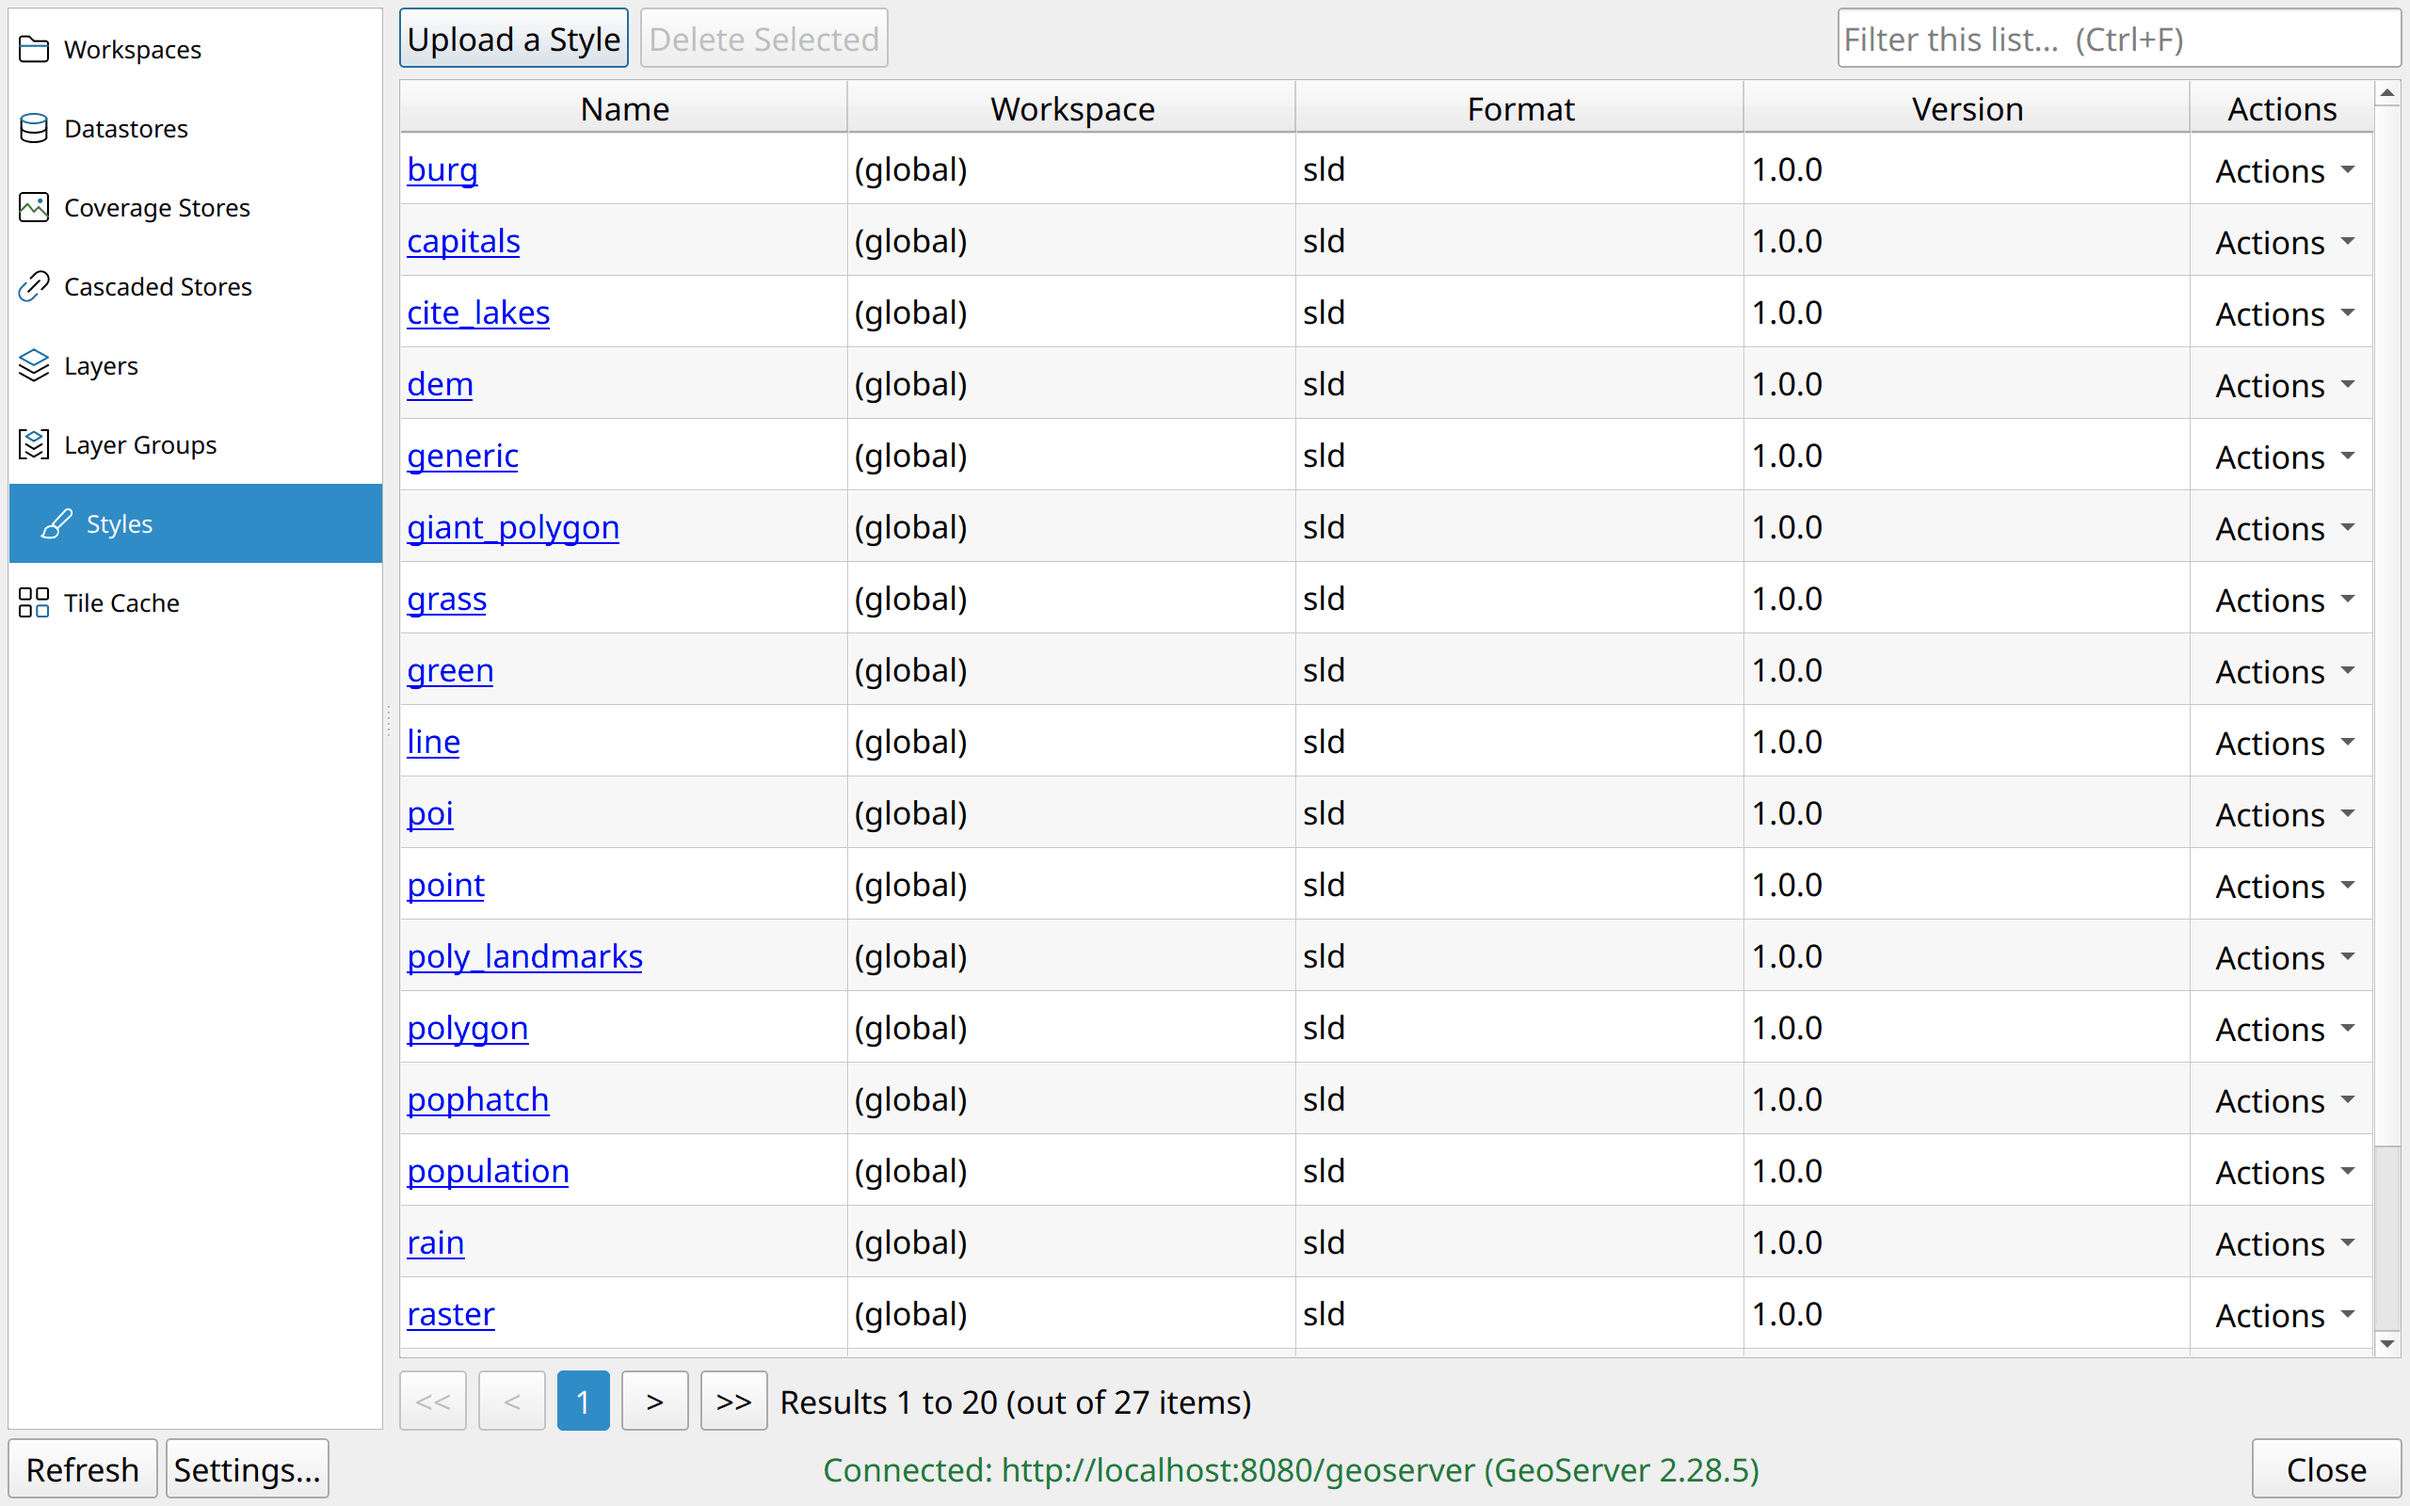
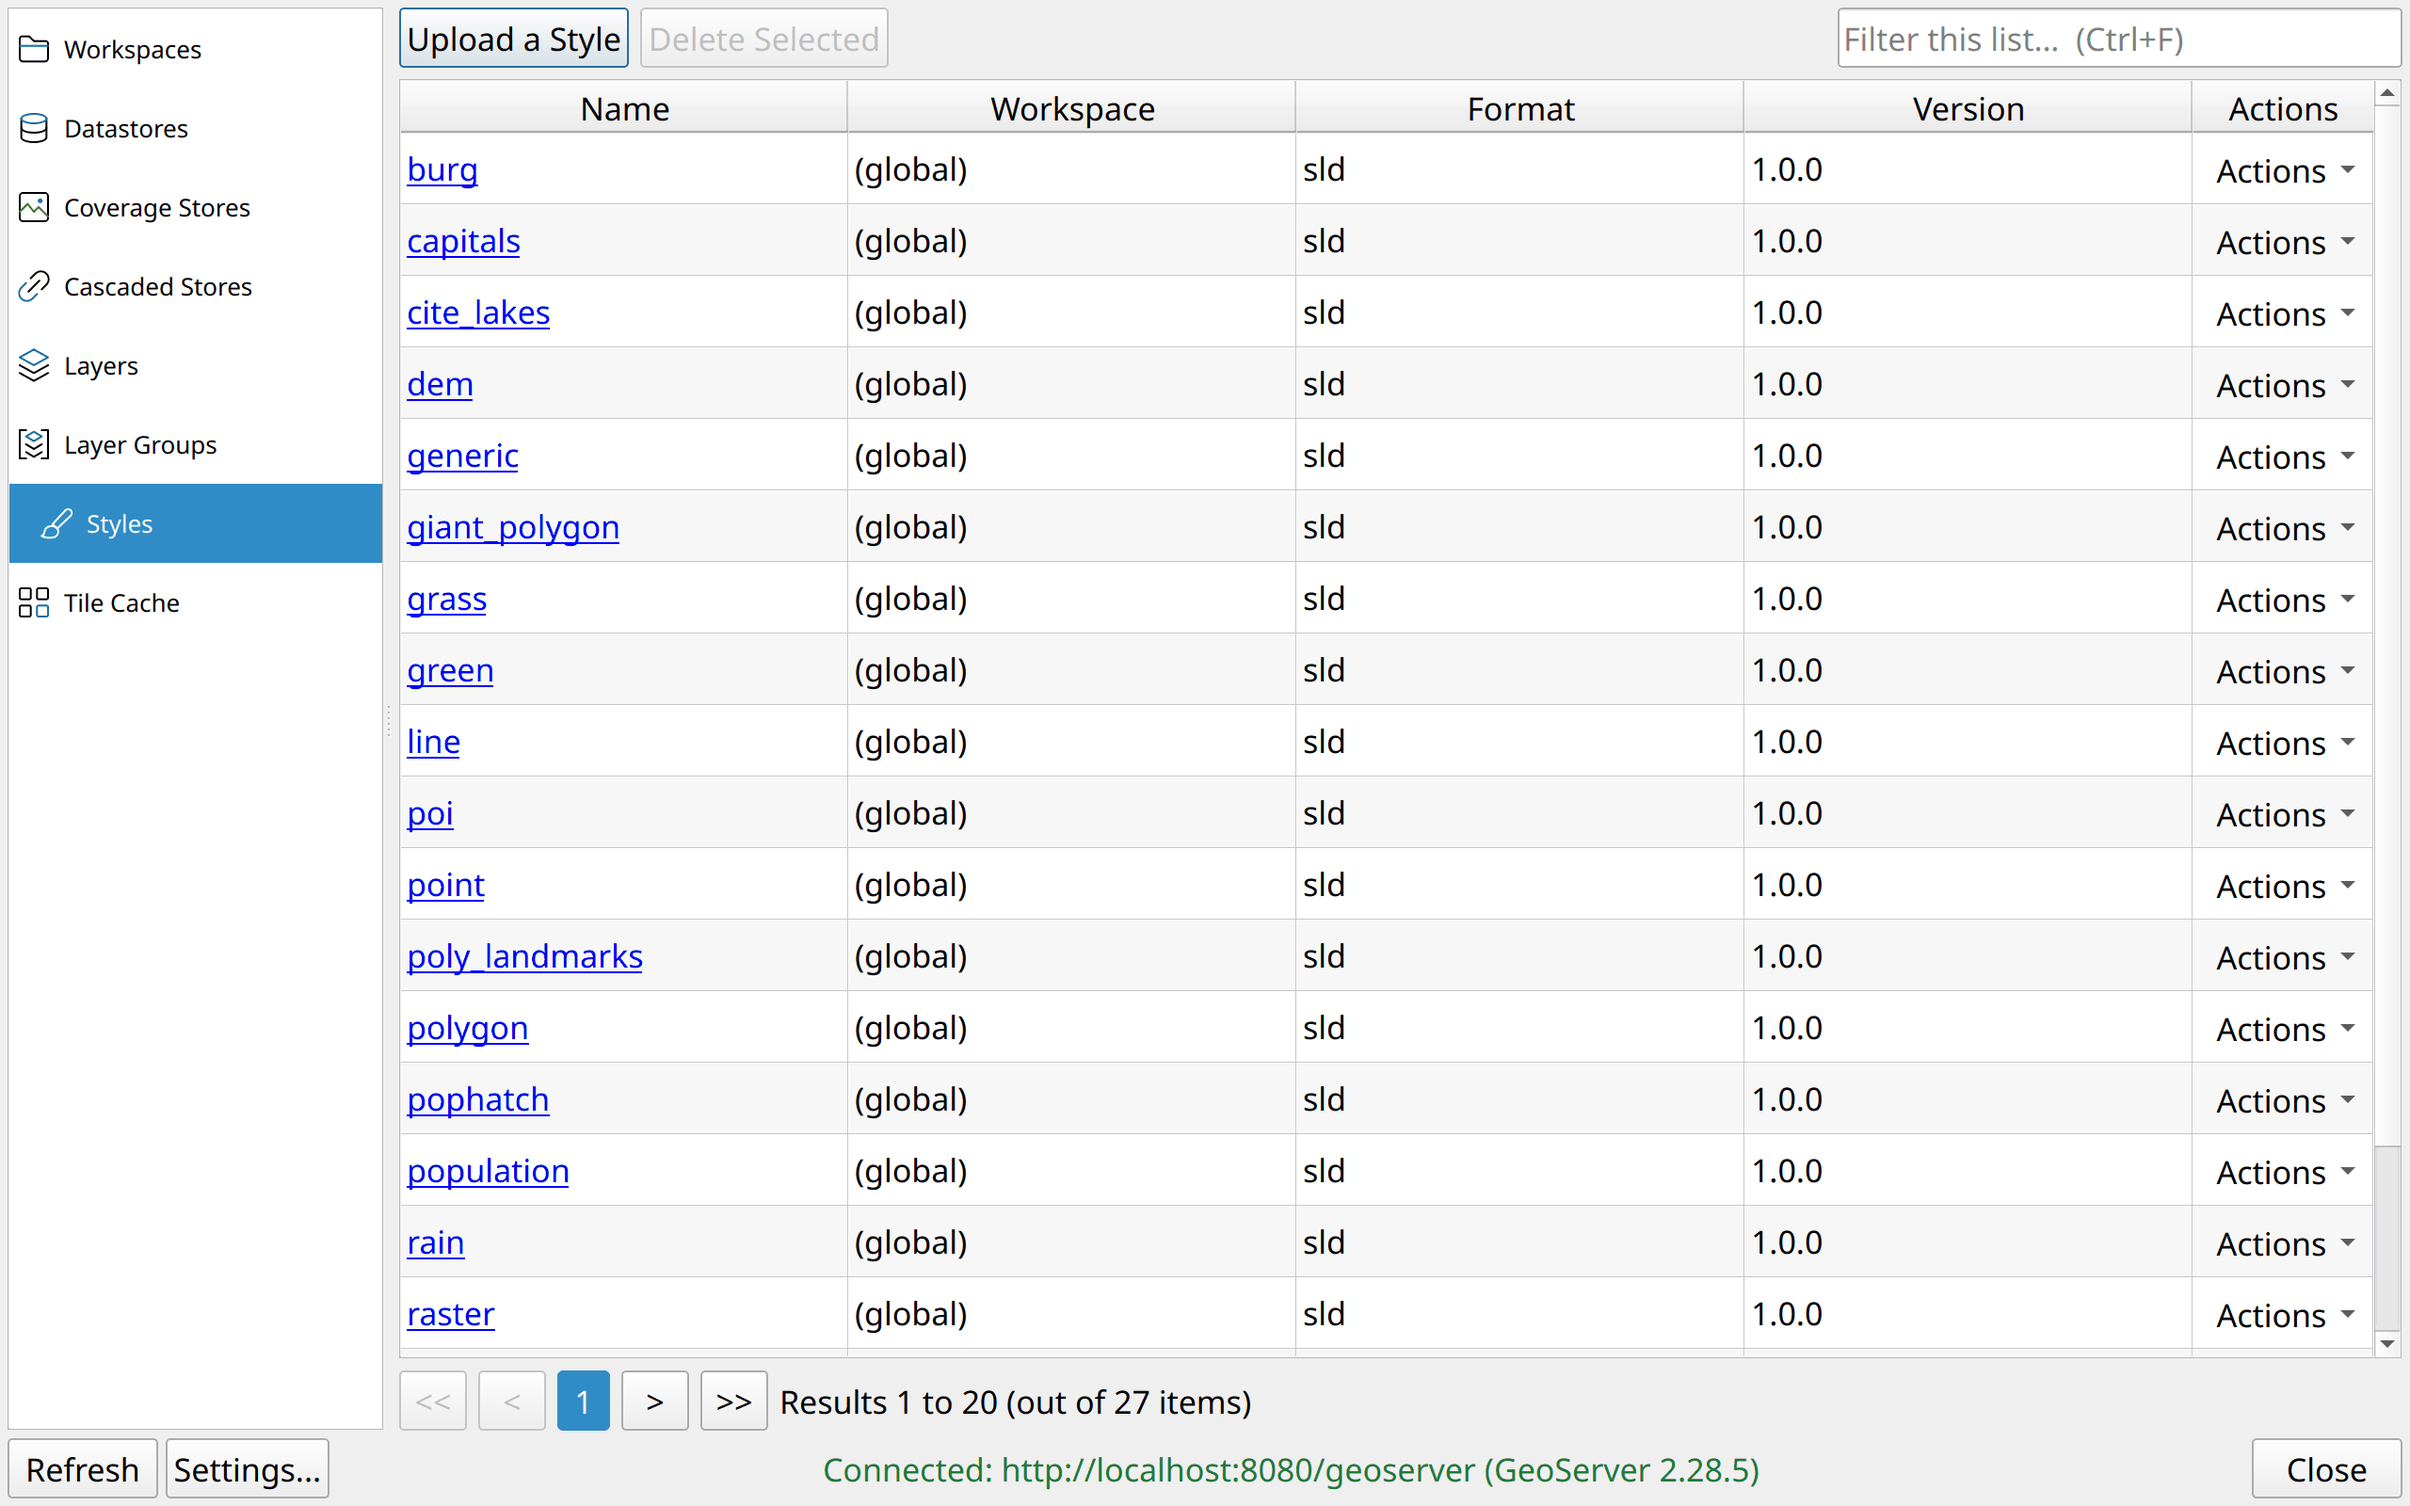
fix: keep the row Actions button whole in QGIS
In QGIS, the Workspaces and Datastores tabs showed their Actions button
clipped to the width of the column header ("ction▾"). The column used
ResizeToContents. The column is now Fixed, and each page sets its width
to the widest of the header and the row-action widgets, once they exist.

The trigger could not be reproduced offscreen: both Qt styles, the
owner's Fusion settings and a QGIS-like app stylesheet all sized the
column correctly with the old code. The owner confirmed the fix in QGIS.
The new test is a guard for the fix's contract and passes on the old
code too.

Screenshots regrabbed: the Actions column is a pixel or two narrower.

diff --git a/geoserver_manager/gui/dlg_main.py b/geoserver_manager/gui/dlg_main.py
@@ -904,7 +904,10 @@ class GeoServerMainDialog(
         actions = self.actions_column_label()
         for i in range(len(columns)):
             if columns[i] == actions:
-                header.setSectionResizeMode(i, QHeaderView.ResizeMode.ResizeToContents)
+                # Sized to its buttons in _show_page, once they exist. With
+                # ResizeToContents, a real QGIS clipped them to the header's
+                # width; offscreen it never did, so the trigger is not known.
+                header.setSectionResizeMode(i, QHeaderView.ResizeMode.Fixed)
             else:
                 header.setSectionResizeMode(i, QHeaderView.ResizeMode.Stretch)
         self._show_sort_indicator()
@@ -1044,6 +1047,20 @@ class GeoServerMainDialog(
                 self.resultsTable.setCellWidget(
                     row_idx, data_col_count, self._make_action_widget(values)
                 )
+
+        if self._row_actions:
+            widgets = (
+                self.resultsTable.cellWidget(row, data_col_count)
+                for row in range(len(page_rows))
+            )
+            header = self.resultsTable.horizontalHeader()
+            header.resizeSection(
+                data_col_count,
+                max(
+                    [header.sectionSizeHint(data_col_count)]
+                    + [widget.sizeHint().width() for widget in widgets if widget]
+                ),
+            )
 
         # Update pagination controls
         self.lbl_page_number.setText(str(self._current_page + 1))

diff --git a/tests/qgis/test_row_actions.py b/tests/qgis/test_row_actions.py
@@ -168,3 +168,23 @@ class TestRowActions(unittest.TestCase):
         self.assertEqual(
             self.menu().palette().color(QPalette.ColorRole.Window), QColor("#232629")
         )
+
+
+class TestActionsColumnWidth(unittest.TestCase):
+    def test_the_column_fits_buttons_a_theme_makes_wider(self):
+        # A regression guard: in QGIS the buttons were clipped to the header's
+        # width. Offscreen that never reproduced, so this passes on the old
+        # code too; it pins the fix's contract, not the original trigger.
+        dialog = SyncDialog()
+        self.addCleanup(dialog.close)
+        dialog.setStyleSheet("QPushButton { font-size: 30px; }")
+        dialog._row_actions = [("delete", "Delete", lambda row: None)]
+        dialog._setup_table(["Name", dialog.actions_column_label()])
+        dialog._populate_rows([["roads"], ["rivers"]])
+        dialog.show()
+        QApplication.processEvents()
+        table = dialog.resultsTable
+        self.assertGreaterEqual(
+            table.horizontalHeader().sectionSize(1),
+            table.cellWidget(0, 1).sizeHint().width(),
+        )

diff --git a/tests/qgis/test_i18n.py b/tests/qgis/test_i18n.py
@@ -201,9 +201,7 @@ class TestRuntimeContext(unittest.TestCase):
         columns = ["Name", self.dlg.actions_column_label()]
         self.dlg._setup_table(columns)
         header = self.dlg.resultsTable.horizontalHeader()
-        self.assertEqual(
-            header.sectionResizeMode(1), QHeaderView.ResizeMode.ResizeToContents
-        )
+        self.assertEqual(header.sectionResizeMode(1), QHeaderView.ResizeMode.Fixed)
         self.assertEqual(header.sectionResizeMode(0), QHeaderView.ResizeMode.Stretch)
 
     def test_a_mixin_string_survives_a_translator_that_knows_nothing(self):
